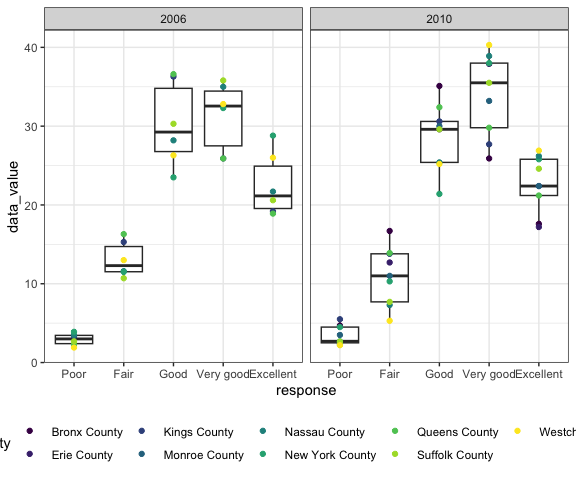
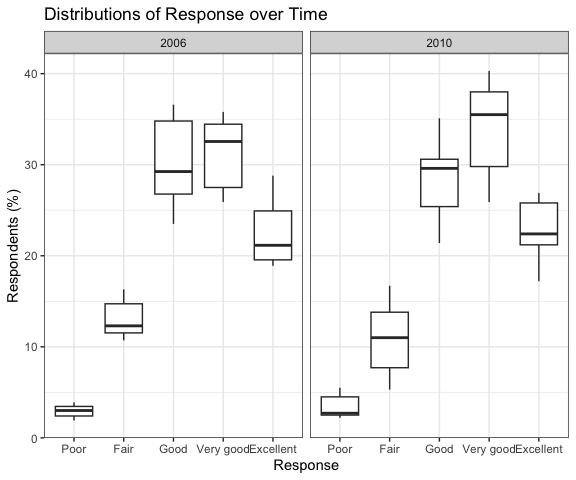
writing descriptions of graphs, tidying the rmd file

diff --git a/p8105_hw3_drl2168.md b/p8105_hw3_drl2168.md
@@ -1,7 +1,7 @@
 P8105: Homework 3
 ================
 Derek Lamb
-2023-10-12
+2023-10-13
 
 I will load all necessary packages here. I also am including the code
 that Dr. Goldsmith showed in class, to set figure color and size
@@ -12,6 +12,7 @@ preferences. I have modified it slightly: I prefer `theme_bw()` over
 ``` r
 library(tidyverse)
 library(knitr)
+library(p8105.datasets)
 
 opts_chunk$set(
   fig.width = 6,
@@ -35,7 +36,6 @@ scale_fill_discrete = scale_fill_viridis_d
 
 ``` r
 # Load data from the provided package
-library(p8105.datasets)
 data("instacart")
 ```
 
@@ -139,15 +139,12 @@ instacart |>
   kable(digits = 1, col.names = c("Product", "Sunday", "Monday", "Tuesday", "Wednesday", "Thursday", "Friday", "Saturday"))
 ```
 
-    ## `summarise()` has grouped output by 'product_name'. You can override using the
-    ## `.groups` argument.
-
 | Product          | Sunday | Monday | Tuesday | Wednesday | Thursday | Friday | Saturday |
 |:-----------------|-------:|-------:|--------:|----------:|---------:|-------:|---------:|
 | Coffee Ice Cream |   13.8 |   14.3 |    15.4 |      15.3 |     15.2 |   12.3 |     13.8 |
 | Pink Lady Apples |   13.4 |   11.4 |    11.7 |      14.2 |     11.6 |   12.8 |     11.9 |
 
-While the majority of ordering appears concentrated in the midle of the
+While the majority of ordering appears concentrated in the middle of the
 day, coffee ice cream is bought a bit later in the afternoon,
 particularly during Weekdays.
 
@@ -167,7 +164,7 @@ df_brfss = brfss_smart2010|>
 
 ### Number of sites
 
-I will look at the number of sites per state.
+I will look at the number of sites per state in 2002.
 
 ``` r
 df_brfss |> 
@@ -180,8 +177,8 @@ df_brfss |>
 
     ## [1] "CT" "FL" "MA" "NC" "NJ" "PA"
 
-These 6 states have 7 or more locations sampled within them in 2002,
-whereas there were 14 states that had 7 or more locations in 2010:
+These 6 states have 7 or more locations sampled within them in 2002. I
+will repeat this code chunk, now looking at states in 2010.
 
 ``` r
 df_brfss |> 
@@ -193,6 +190,10 @@ df_brfss |>
 ```
 
     ##  [1] "CA" "CO" "FL" "MA" "MD" "NC" "NE" "NJ" "NY" "OH" "PA" "SC" "TX" "WA"
+
+There are now 14 states with 7 or more sites, 8 more than in 2002. Of
+note, 9 states have entered this group, and Connecticut has actually
+decreased the number of sites it had, down to 5 sites.
 
 ### Excellence over Time
 
@@ -222,8 +223,8 @@ df_brfss |>
 ### NY State
 
 For the following I filtered the data to only New York responses in 2006
-and 2010. I then plotted the distribution of scores over the years,
-coloring by County.
+and 2010. I then plotted the distribution of scores over the year using
+boxplots.
 
 ``` r
 df_brfss |> 
@@ -232,25 +233,36 @@ df_brfss |>
   select(year, county, response, data_value) |> 
   ggplot(aes(x = response,  y = data_value)) + 
   geom_boxplot() +
-  geom_point(aes(color = county))+
-  facet_grid(. ~ year)
+  facet_grid(. ~ year) +
+  labs(
+    title = "Distributions of Response over Time",
+    x = "Response",
+    y = "Respondents (%)"
+  )
 ```
 
 <img src="p8105_hw3_drl2168_files/figure-gfm/distribution-1.png" width="90%" />
 
+While in 2006, the ‘good’ and ‘very good’ responses look quite similar,
+though in 2010 ‘very good’ is higher and ‘good’ is lower across
+counties. The worse off scores appear to have decreased a bit in some
+counties, but their median percents have remained about the same.
+
 # Problem 3
 
-I will import `nhanes_covar.csv`, then `nhanes_accel.csv`, and then
-combine the two after some preliminary tidying. In `nhanes_covar.csv`, I
-changed variable names to snake case and recoded `sex` and `education`
-to character variables. The `bmi` and `education` variables are missing
+I will import `nhanes_covar.csv`, `nhanes_accel.csv`, and then combine
+the two after some preliminary tidying. In `nhanes_covar.csv`, I changed
+variable names to snake case and recoded `sex` and `education` to
+character variables. The `bmi` and `education` variables are missing
 data for some subjects, but the missing data were appropriately labelled
 as `NA` so I didn’t need to make any changes there.
 
 The only modification I needed to make to `nhanes_accel.csv` was
 changing the `seqn` indicator variable name to be lower case. I think
 that R is handling the scientific notation of some columns correctly. If
-this proves to be a problem, I will address it later.
+this proves to be a problem, I will address it later. Rather than use
+`snake_case` for the variable levels, I’m leaving them capitalized to
+make the tables and plots for this problem more reader-friendly.
 
 ``` r
 # Import and tidy covariate info
@@ -297,7 +309,8 @@ This final dataframe contains 332640 observations of 7 variables. It
 records basic demographic information, such as `age`, `sex`, and
 `education` along with `bmi` for 231 subjects of the NHANES study. It
 then tracks a person’s movement using an accelerometer every minute over
-the course of one day.
+the course of one day. It also treats `education` as a factor variable,
+to rationally order the following tables and plots.
 
 ### Demographics
 
@@ -401,7 +414,8 @@ df_nhanes |>
   geom_line(alpha = 0.4) +
   geom_smooth(alpha = 0.7, se = FALSE) + 
   facet_grid(education ~ .) +
-    labs(
+  scale_x_continuous(breaks = c(0, 6, 12, 18, 24)) +
+  labs(
     title = "NHANES Daily Movement",
     x = "Time (hours)",
     y = "Total Movement (MIMS Units)",
@@ -414,3 +428,11 @@ df_nhanes |>
     ## `geom_smooth()` using method = 'gam' and formula = 'y ~ s(x, bs = "cs")'
 
 <img src="p8105_hw3_drl2168_files/figure-gfm/plot over day-1.png" width="90%" />
+
+In the plot above, `sex` does not appear to play a large role in
+determining activity; both female and male participants were similarly
+active. It does look like in the higher education levels, females are a
+bit more active than males. Participants without a high school diploma
+tend to have peak activity in the morning and then decrease more sharply
+to the evening, while the other education strata are more stable
+throughout the day, becore declining after 6:00pm.
